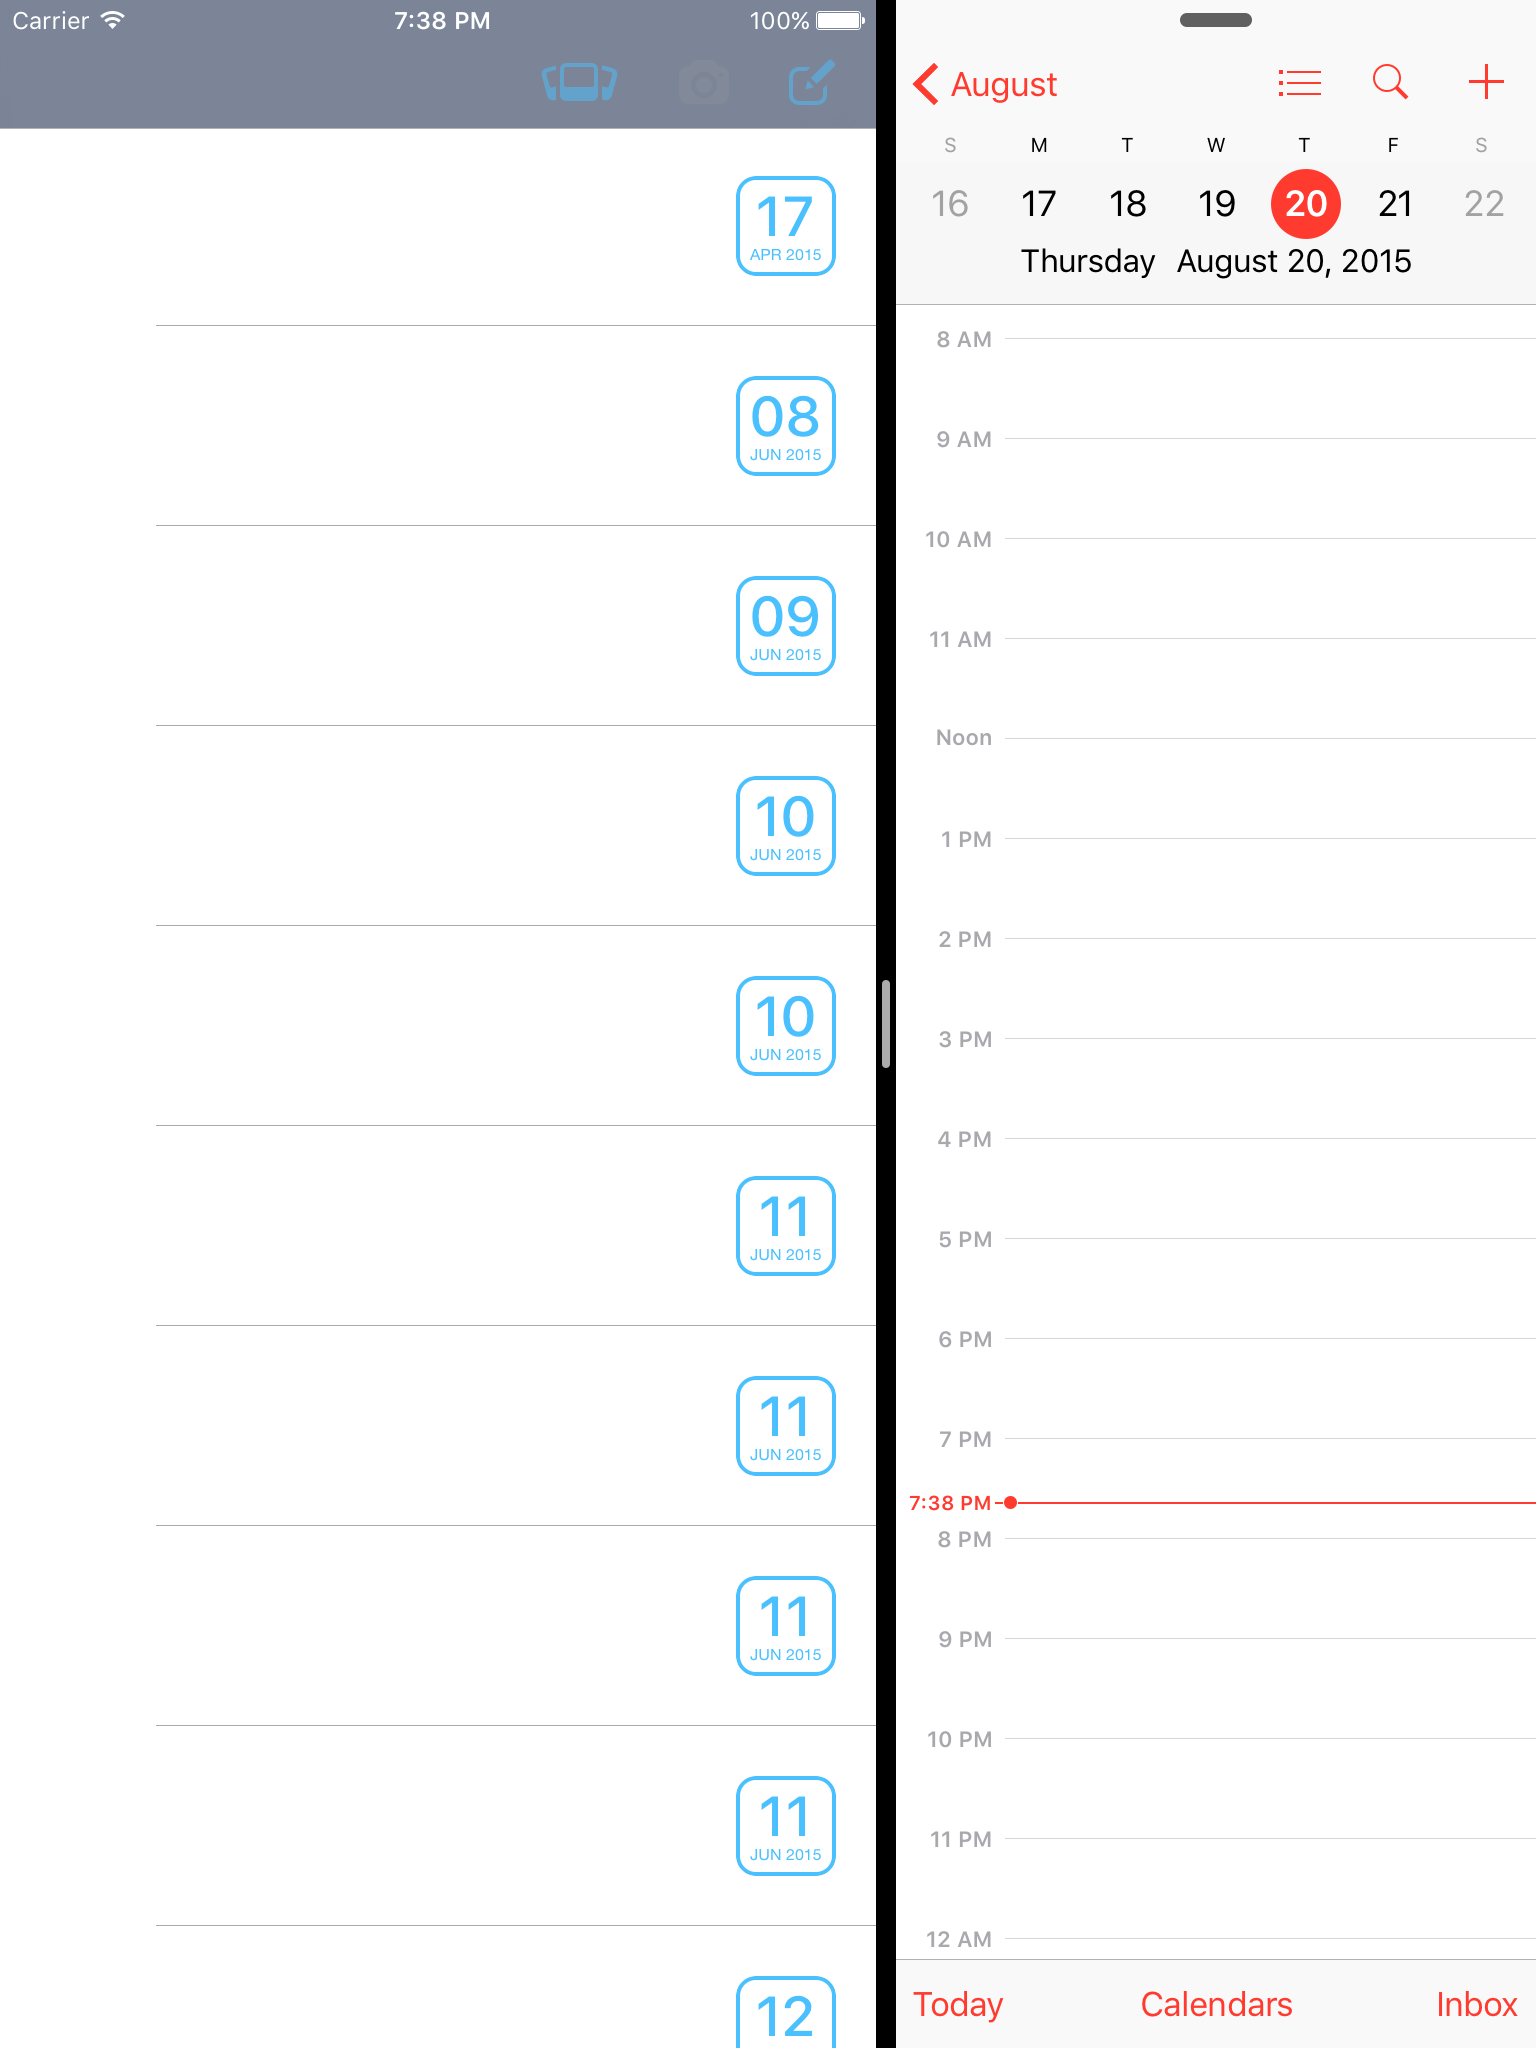
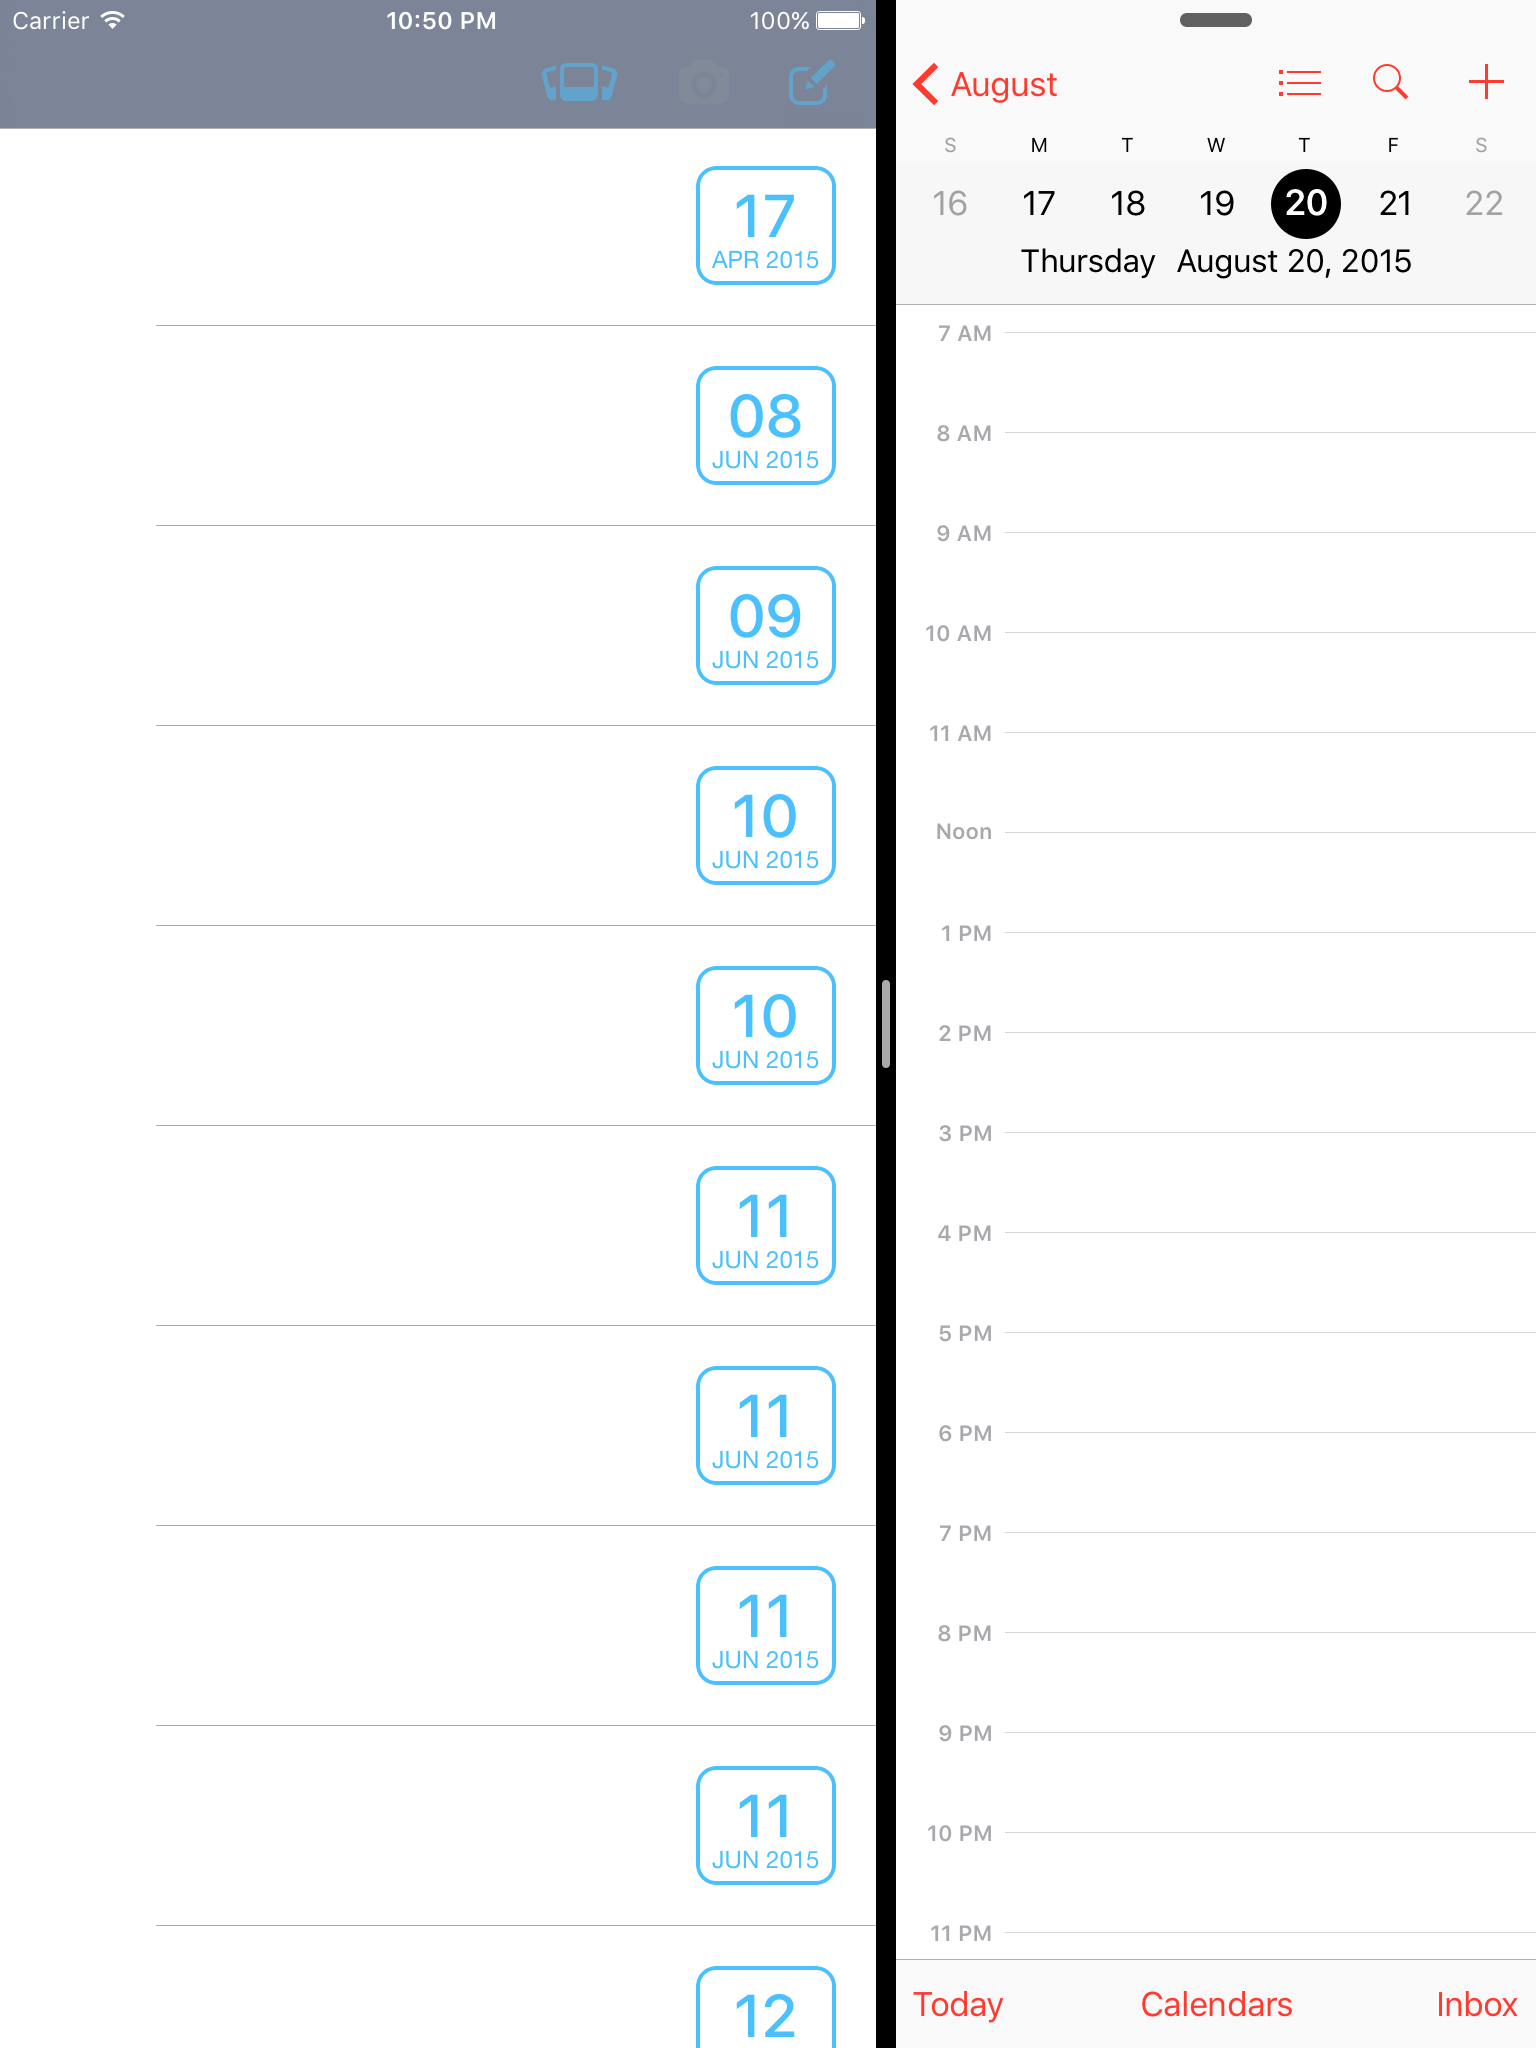
Update screenshots, and constratins in the storyboard

diff --git a/multitasking/projects/final/Travelog/Travelog/Custom Views/LogCell.swift b/multitasking/projects/final/Travelog/Travelog/Custom Views/LogCell.swift
@@ -24,7 +24,7 @@ import UIKit
 
 class LogCell: UITableViewCell {
   
-  static let widthThreshold: CGFloat = 160.0
+  static let widthThreshold: CGFloat = 180.0
   
   @IBOutlet private var compactView: UIView!
   @IBOutlet private var compactDayLabel: UILabel!
